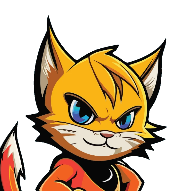
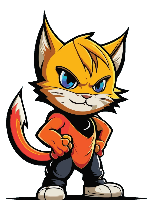
quests 0.5.2: a small, full-body cat beside the text
The cat was a big head (28x14 cells) that took too much room in a narrow
pane. Now he is full body and as tall as the text beside him (6 rows):

- VS Code (and terminals without pictures): a hand-drawn 12x12 pixel sprite
  (scripts/cat-sprite.mjs), with his tail wagging, mouth open while he talks,
  arms up and sparkles when he cheers. scripts/cat-pixels.mjs makes the cells
  without a browser now.
- Ghostty and kitty: the full drawing, 9x6 cells.
- He always sits beside the text.

Checked in a real session set up like VS Code.

Claude-Session: https://claude.ai/code/session_01PW4wBEfqUtWqE3h4cXzFBy

diff --git a/hooks/cat-pixels.ts b/hooks/cat-pixels.ts
@@ -1,15 +1,15 @@
-// Generated by scripts/cat-pixels.mjs from assets/cat/source.png: do not edit.
+// Generated by scripts/cat-pixels.mjs from scripts/cat-sprite.mjs: do not edit.
 // The cat as terminal cells (▀ half blocks, two pixels a cell), for terminals
 // that show no pictures. The drawing is Lucian Roman's, all rights reserved.
 
-export const CAT_COLUMNS = 28
-export const CAT_ROWS = 14
+export const CAT_COLUMNS = 12
+export const CAT_ROWS = 6
 
 export const CAT_CELLS: Readonly<Record<string, string>> = {
[12 lines of base64/hex data omitted]
 }

diff --git a/hooks/register.tsx b/hooks/register.tsx
@@ -1187,8 +1187,8 @@ export const register: Register = on => {
     return (
       <Box flexDirection="column" gap={1}>
         {isCatDrawn ? (
-          <Box gap={2} alignItems="center" flexDirection={e.props.bodyColumns < 70 ? 'column' : 'row'}>
-            {catKind === 'picture' && Image !== undefined && <Image key="cat" source={catSource($, catFrame)} columns={12} rows={6} alt="🐱" />}
+          <Box gap={2} alignItems="center">
+            {catKind === 'picture' && Image !== undefined && <Image key="cat" source={catSource($, catFrame)} columns={9} rows={CAT_ROWS} alt="🐱" />}
             {catKind === 'pixels' && Raster !== undefined && (
               <Raster key="cat" columns={CAT_COLUMNS} rows={CAT_ROWS} cells={CAT_CELLS[catFrame] ?? CAT_CELLS.idle ?? ''} />
             )}

diff --git a/README.md b/README.md
@@ -23,8 +23,9 @@ Then type `/quests`.
 with what's waiting (today's page, reviews due, your next quest), cheers when
 you earn XP and tells you when an answer was wrong. He moves: he breathes,
 his mouth moves while he talks, and he jumps with stars when you level up.
-In VS Code (and any terminal without pictures) he is pixel art drawn in the
-terminal's own characters; in Ghostty and kitty he is the full drawing.
+He is small (as tall as the text beside him) and full body: in VS Code (and
+any terminal without pictures) a hand-drawn 12×12 pixel sprite in the
+terminal's own characters; in Ghostty and kitty the full drawing.
 Don't want him? *Me → Cat: on (hide him)*.
 
 ![How it works: pick your track, do it for real, remember it, level up and show it](docs/how-it-works.png)
@@ -122,13 +123,13 @@ you studied, reviews, weak spots fixed and the boss.
 - `hooks/register.tsx` — the mod: the `/quests` command, the hooks that
   watch the session, the pane.
 - `hooks/card.ts` — the shareable cards (level and week), drawn on a canvas.
-- `hooks/cat-pixels.ts` — the pixel-art cat, made by `scripts/cat-pixels.mjs`
-  from `assets/cat/source.png` (`node scripts/cat-pixels.mjs` with Playwright).
+- `hooks/cat-pixels.ts` — the pixel cat as terminal cells, made by
+  `node scripts/cat-pixels.mjs` from the sprite in `scripts/cat-sprite.mjs`.
 
 Run the tests with `claude plugin test`.
 
 ## License
 
-Code: MIT © 2026 Lucian Roman. The cat drawing (`assets/cat/`, and in
-`docs/`) is Lucian Roman's artwork, all rights reserved: it is not covered by
+Code: MIT © 2026 Lucian Roman. The cat drawing (`assets/cat/`, `scripts/cat-sprite.mjs`,
+and in `docs/`) is Lucian Roman's artwork, all rights reserved: it is not covered by
 the MIT license. Not affiliated with Anthropic.
